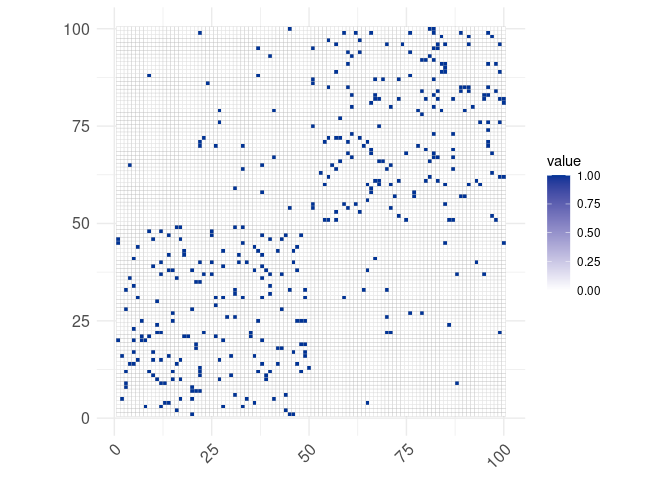
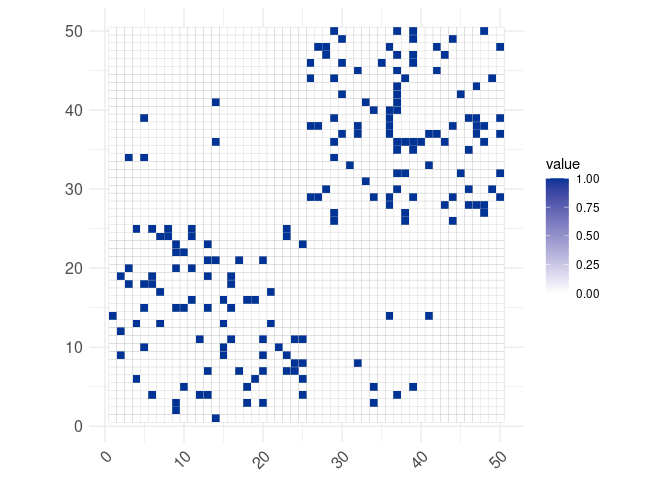
Add unittests

diff --git a/src/python/vimure/test/test_model.py b/src/python/vimure/test/test_model.py
@@ -165,76 +165,6 @@ class TestVimureModel:
 
         assert np.allclose(f1_score(Y_true, Y_rec), 0.92, atol=1e-2)
 
-        def test_vimure_model_extreme_scenarios_over_reporting(self):
-            """
-            Ensures that the model achieves F1-score near 1.0 on a known
-                extreme scenario (10% exaggerators over-reporting)
-            """
-
-            """
-            GENERATE CUSTOM THETA
-            """
-
-            eta = 0.2
-            theta_ratio = 0.1
-            seed = 25
-            K = 2
-
-            gt_network = vm.synthetic.GMReciprocity(
-                N=100,
-                M=100,
-                L=1,
-                C=2,
-                K=K,
-                avg_degree=5,
-                sparsify=True,
-                seed=seed,  # seed=25 works well with default values
-                ExpM=None,
-                eta=eta,
-            )
-
-            theta = vm.synthetic.build_custom_theta(
-                gt_network=gt_network,
-                theta_ratio=theta_ratio,
-                exaggeration_type="over",
-                seed=seed,
-            )
-
-            LAMBDA_0 = 0.01
-            LAMBDA_DIFF = 0.99
-            gt_network.build_X(
-                mutuality=eta,  # Same as planted mutuality
-                theta=theta,  # Pre-defined theta
-                cutoff_X=False,
-                lambda_diff=LAMBDA_DIFF,
-                flag_self_reporter=True,
-                seed=seed,
-                verbose=True,
-            )
-
-            lambda_k_GT = np.array([[LAMBDA_0, LAMBDA_0 + LAMBDA_DIFF]])
-            beta_lambda = 10000 * np.ones((lambda_k_GT.shape))
-            alpha_lambda = lambda_k_GT * beta_lambda
-
-            model = vm.model.VimureModel(mutuality=True, verbose=True)
-            model.fit(
-                gt_network.X,
-                K=K,
-                seed=seed,
-                theta_prior=(0.1, 0.1),
-                eta_prior=(0.5, 1),
-                alpha_lambda=alpha_lambda,
-                beta_lambda=beta_lambda,
-                num_realisations=2,
-                max_iter=21,
-                R=gt_network.R,
-            )
-
-            Y_true = gt_network.Y.toarray()[0].flatten()
-            Y_rec = vm.utils.apply_rho_threshold(model, threshold=0.5)[0].flatten()
-
-            assert np.allclose(f1_score(Y_true, Y_rec), 0.92, atol=1e-2)
-
     def test_vimure_model_extreme_scenarios_over_reporting_dense(self):
         """
         Ensures that the model achieves F1-score near 1.0 on a known

diff --git a/src/R/README.md b/src/R/README.md
@@ -59,7 +59,7 @@ You can install the development version of VIMuRe from
 
 ``` r
 # install.packages("devtools")
-devtools::install_github("latentnetworks/vimure", subdir="src/R", ref="19-vimure-v01-r-write-test_generate_xr")
+devtools::install_github("latentnetworks/vimure", subdir="src/R", ref="25-vimure-v01-r-implement-vimuremodel")
 ```
 
 ## Usage Example
@@ -73,8 +73,10 @@ library(vimure)
 #> PYTHON_PATH=/home/gabriela-borges/.virtualenvs/r-vimure/bin/python
 
 vimure:::vimureP  ## The Python package
-#> Module(vimure)
+#> <pointer: 0x0>
 ```
+
+### Synthetic Data
 
 Simply create an object with the desired synthetic network class:
 
@@ -91,7 +93,7 @@ library(igraph, quietly =T)
 #> 
 #>     union
 
-random_net <- gm_CReciprocity()
+random_net <- gm_CReciprocity(N=50, M=50)
 Y <- extract_Y(random_net) # Tensor object
 
 ggcorrplot(Y[1, ,]) + 
@@ -113,7 +115,7 @@ paste0(
   " | Avg. degree: ", mean(degree(graph)), # TODO: Change to directed graph
   " | Reciprocity: ", reciprocity(graph)
 )
-#> [1] "Nodes: 100 | Edges: 386 | Avg. degree: 7.72 | Reciprocity: 0.787564766839378"
+#> [1] "Nodes: 50 | Edges: 187 | Avg. degree: 7.48 | Reciprocity: 0.812834224598931"
 ```
 
 Given a network Y, we can generate N observed adjacency matrices as
@@ -131,6 +133,36 @@ ggcorrplot(Xavg[1, ,]) +
 ```
 
 <img src="man/figures/README-unnamed-chunk-4-1.png" width="100%" />
+
+### Model
+
+``` r
+model <- vimure(random_net$X, R=random_net$R, mutuality = T, num_realisations=1, max_iter=150)
+summary(model, random_net)
+#> ---------------
+#> - DIAGNOSTICS -
+#> ---------------
+#> 
+#> Model: ViMuRe(T)
+#> 
+#>   Priors:
+#>    - eta:    shp=0.50 rte=1.00
+#>    - theta:  shp=0.10 rte=0.10
+#>    - lambda: shp=10.0 rte=10.0
+#>    - rho:    a (1, 50, 50, 15) tensor (to inspect it, run <diag_obj>.model.pr_rho)
+#> 
+#>   Posteriors:
+#>    - G_exp_lambda_f: [[0.02172369 1.08060381 1.08217007 1.08361545 1.08180345 1.08017684
+#>   1.08183233 1.08032291 1.08267137 1.08084451 1.0794326  1.08208748
+#>   1.08272802 1.08122456 1.12196327]]
+#>    - G_exp_nu_f: 0.74
+#>    - G_exp_theta_f: a (1, 50) tensor (to inspect it, run <diag_obj>.model.G_exp_theta_f)
+#>    - rho_f: a (1, 50, 50, 15) tensor (to inspect it, run <diag_obj>.model.rho_f)
+#> 
+#> Optimisation:
+#> 
+#>    Elbo: 52373.250092620627
+```
 
 ## Setup (Development mode)
 
